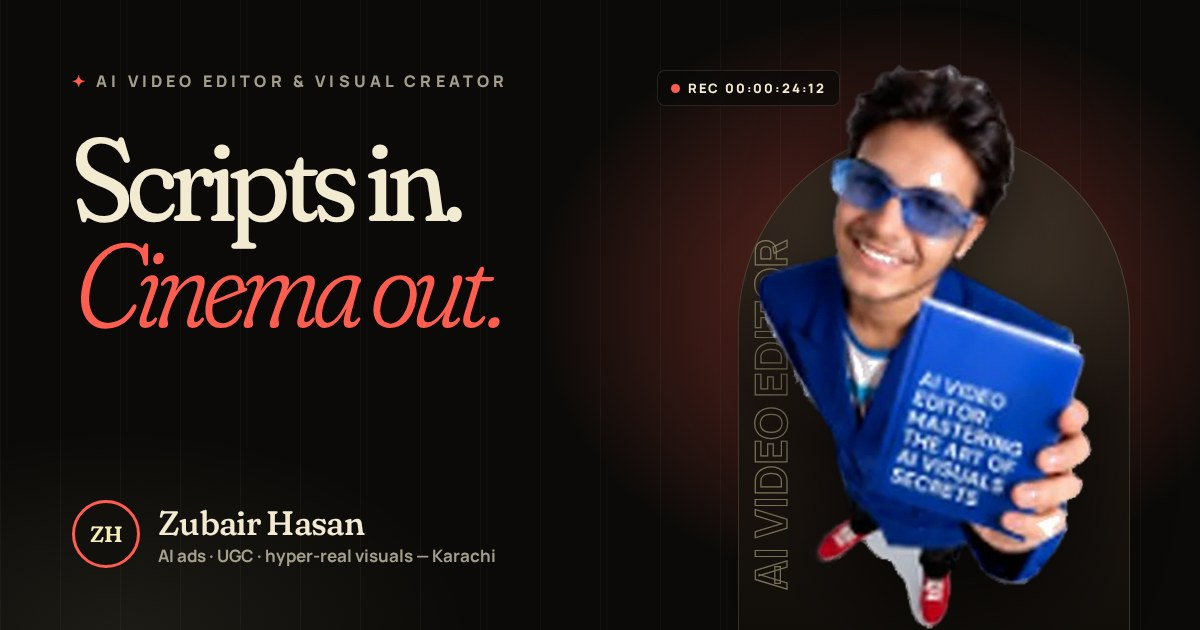
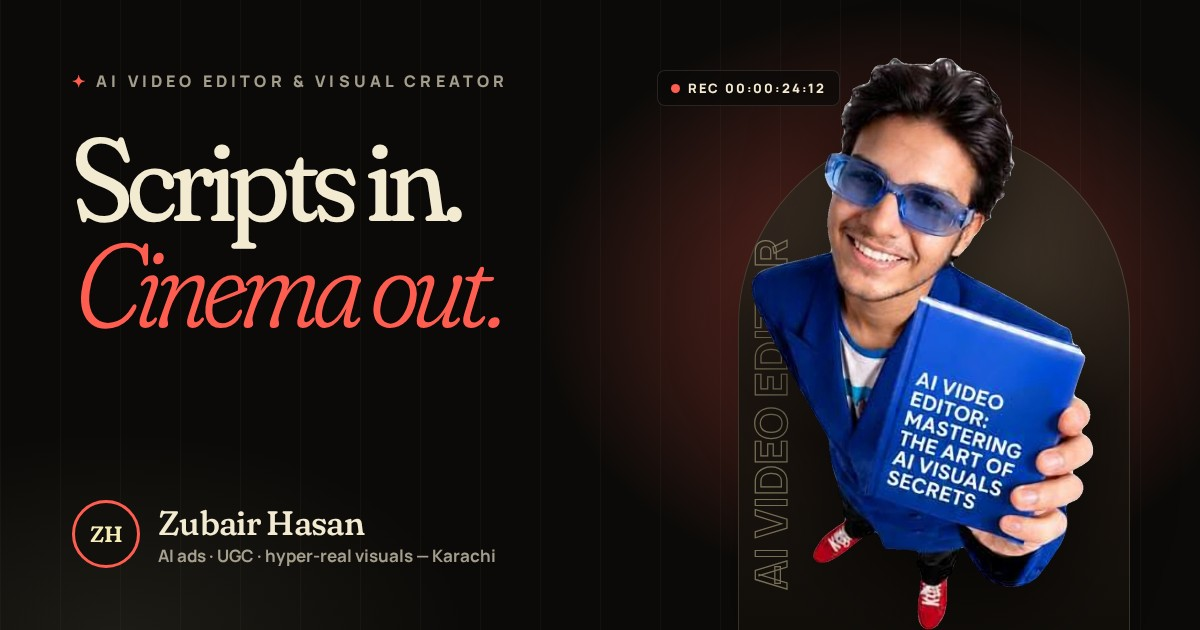
Use HD photo: clean isnet cut-out (EDSR x3 upscale, white-spill removed), new OG image

Changed region(s): [[0.6167, 0.0905, 0.925, 1.0], [0.8942, 0.5429, 0.925, 0.573], [0.8325, 0.2413, 0.8633, 0.2714]]

diff --git a/index.html b/index.html
@@ -134,7 +134,7 @@
               <span class="portrait__vt" aria-hidden="true">AI Video Editor</span>
               <picture>
                 <source srcset="assets/img/zubair-cut.webp" type="image/webp">
-                <img class="portrait__img" data-photo src="assets/img/zubair-cut.png" width="900" height="900" alt="Zubair Hasan in a blue suit and blue glasses, holding a book titled 'AI Video Editor — Mastering the art of AI visuals'" fetchpriority="high" decoding="async">
+                <img class="portrait__img" data-photo src="assets/img/zubair-cut.png" width="961" height="1100" alt="Zubair Hasan in a blue suit and blue glasses, holding a book titled 'AI Video Editor — Mastering the art of AI visuals'" fetchpriority="high" decoding="async">
               </picture>
               <span class="rec" aria-hidden="true"><i></i> REC <span class="timecode">00:00:00:00</span></span>
             </div>
@@ -246,7 +246,7 @@
         <div class="about__frame">
           <picture>
             <source srcset="assets/img/zubair-cut.webp" type="image/webp">
-            <img class="about__img" data-photo src="assets/img/zubair-cut.png" width="900" height="900" alt="" loading="lazy" decoding="async">
+            <img class="about__img" data-photo src="assets/img/zubair-cut.png" width="961" height="1100" alt="" loading="lazy" decoding="async">
           </picture>
           <span class="about__caption"><span data-bind="name">Zubair Hasan</span><small data-bind="location">Karachi, Pakistan</small></span>
         </div>
